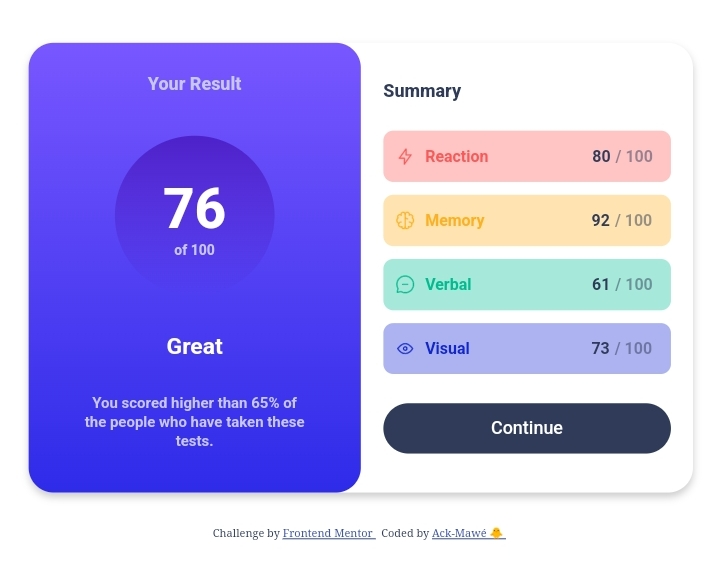
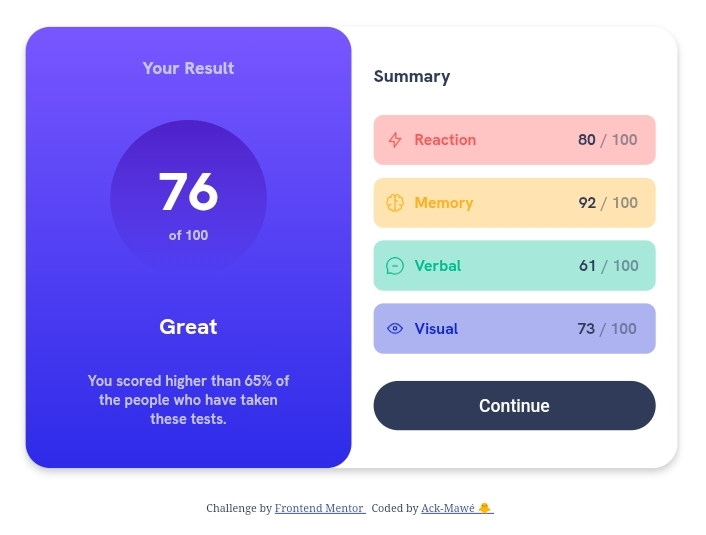
m

diff --git a/results-summary-component/style.css b/results-summary-component/style.css
@@ -33,7 +33,7 @@
   font-family: 'HankenGrotesk';
   font-display: swap;
   font-weight: 100 900;
-  src: url('/assets/fonts/HankenGrotesk-VariableFont_wght.ttf') format('truetype');
+  src: url('./assets/fonts/HankenGrotesk-VariableFont_wght.ttf') format('truetype');
 }
 body {
   font-size: 18px;
@@ -110,6 +110,7 @@ body {
   text-align: center;
   line-height: 19px;
 }
+
 #top2 {
   display: grid;
   margin: 0;
@@ -223,11 +224,10 @@ img {
 }
 
 /* Width for desktop devices */
-
 @media (min-width: 768px) {
 body {
   justify-items: center;
-  display: grid;
+  display: flex;
 }
 #container {
   display: flex;

diff --git a/results-summary-component/README.md b/results-summary-component/README.md
@@ -6,7 +6,7 @@ This is a solution to the [Results summary component challenge on Frontend Mento
 
 - [Overview](#overview)
   - [The challenge](#the-challenge)
-  - [Screenshot](#screenshot)
+  - [Screenshots](#screenshots)
   - [Links](#links)
 - [My process](#my-process)
   - [Built with](#built-with)
@@ -28,22 +28,18 @@ Users should be able to:
 - See hover and focus states for all interactive elements on the page
 - **Bonus**: Use the local JSON data to dynamically populate the content
 
-### Screenshot
+### Screenshots
 
+#### Mobile View
+![](assets/screenshots/Screenshot_20250130-145947.jpg?raw=true)
+
+#### Desktop View
 ![](assets/screenshots/Screenshot-20250130-150028.jpg?raw=true)
-
-Add a screenshot of your solution. The easiest way to do this is to use Firefox to view your project, right-click the page and select "Take a Screenshot". You can choose either a full-height screenshot or a cropped one based on how long the page is. If it's very long, it might be best to crop it.
-
-Alternatively, you can use a tool like [FireShot](https://getfireshot.com/) to take the screenshot. FireShot has a free option, so you don't need to purchase it. 
-
-Then crop/optimize/edit your image however you like, add it to your project, and update the file path in the image above.
-
-**Note: Delete this note and the paragraphs above when you add your screenshot. If you prefer not to add a screenshot, feel free to remove this entire section.**
 
 ### Links
 
 - Solution URL: [Add solution URL here](https://your-solution-url.com)
-- Live Site URL: [Add live site URL here](https://your-live-site-url.com)
+- Live Site URL: [Results Summary Component](https://frontend-mentor-mawe.vercel.app/results-summary-component/)
 
 ## My process
 
@@ -54,11 +50,6 @@ Then crop/optimize/edit your image however you like, add it to your project, and
 - Flexbox
 - CSS Grid
 - Mobile-first workflow
-- [React](https://reactjs.org/) - JS library
-- [Next.js](https://nextjs.org/) - React framework
-- [Styled Components](https://styled-components.com/) - For styles
-
-**Note: These are just examples. Delete this note and replace the list above with your own choices**
 
 ### What I learned
 
@@ -99,11 +90,9 @@ Use this section to outline areas that you want to continue focusing on in futur
 
 ## Author
 
-- GitHub - [Ack-Mawé](https://www.github.com/ackmawe)
-- Frontend Mentor - [@yourusername](https://www.frontendmentor.io/profile/yourusername)
-- Social Links - (https://mawe-links.vercel.app)
-
-**Note: Delete this note and add/remove/edit lines above based on what links you'd like to share.**
+- GitHub - [Ack-Mawé 🐥](https://www.github.com/ackmawe)
+- Frontend Mentor - [@ackmawe](https://www.frontendmentor.io/profile/ackmawe)
+- Social Links - [Mawe-Links](https://mawe-links.vercel.app)
 
 ## Acknowledgments
 
